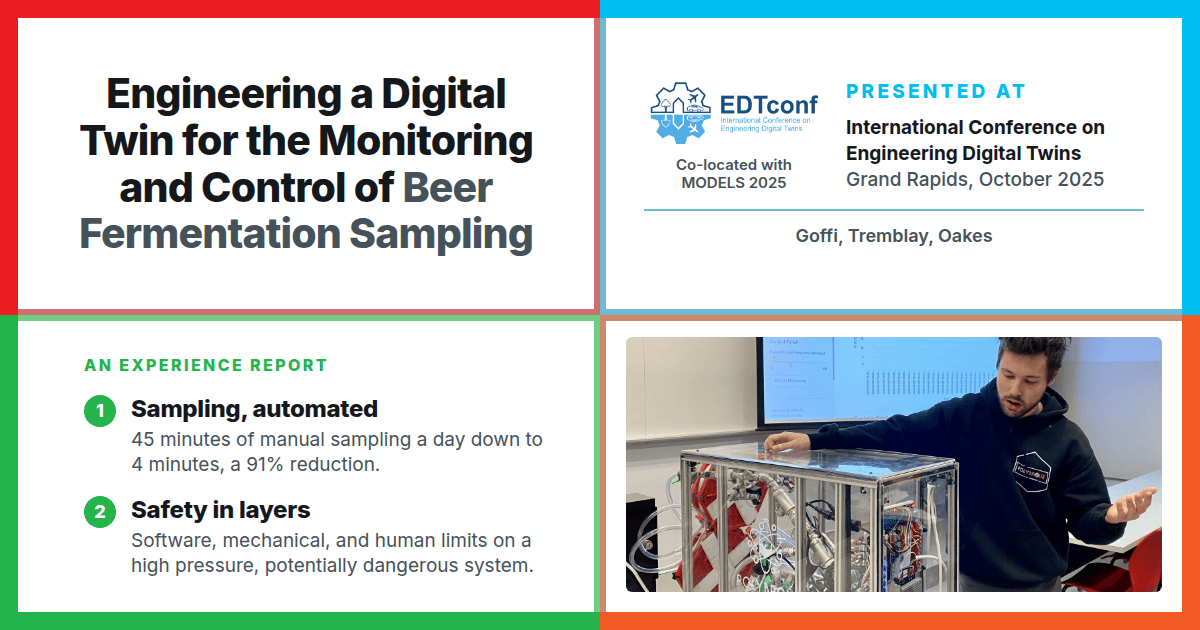
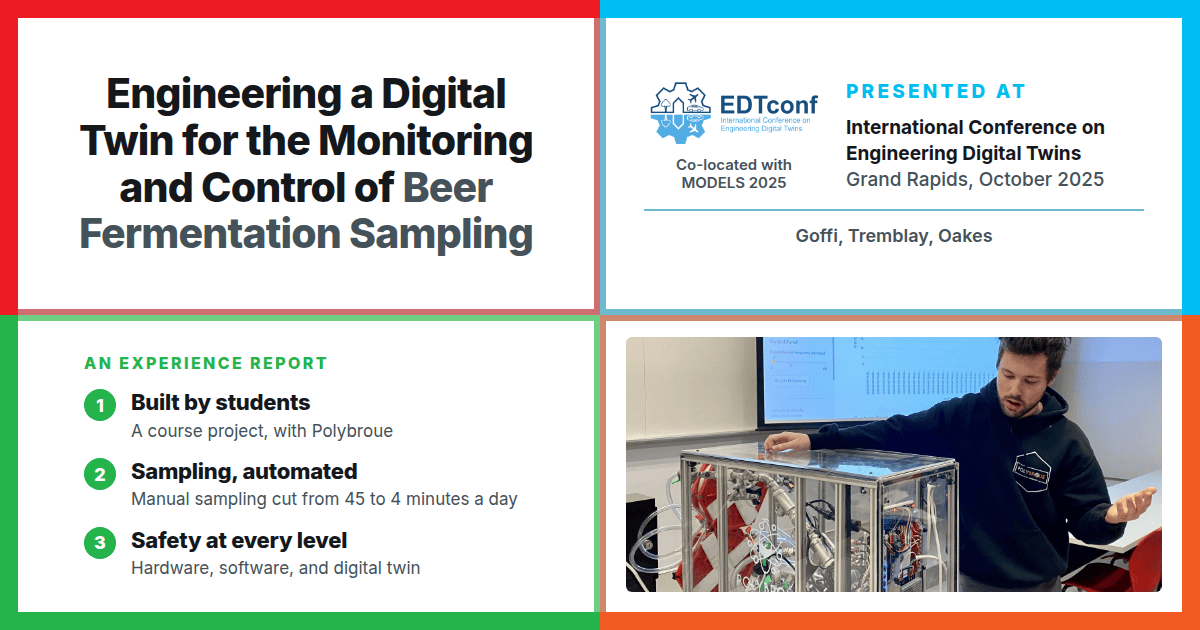
Add the beer fermentation article, and refresh its card

Changed region(s): [[0.0617, 0.5429, 0.4625, 0.9349], [0.8942, 0.9048, 0.925, 0.9349]]

diff --git a/assets/cards/goffi2025.html b/assets/cards/goffi2025.html
@@ -13,6 +13,21 @@
   .figure img {
     object-position: 50% 38%;
   }
+
+  /* Three points rather than two, so each gives up a little room and each
+     description is kept to a single line, as on the FITER card. */
+  .points ol {
+    gap: 16px;
+  }
+  .points .label {
+    margin-bottom: 16px;
+  }
+  .points h2 {
+    font-size: 22px;
+  }
+  .points p {
+    font-size: 17px;
+  }
 </style>
 
 <section class="q title">
@@ -38,14 +53,20 @@
   <ol>
     <li>
       <div>
-        <h2>Sampling, automated</h2>
-        <p>45 minutes of manual sampling a day down to 4 minutes, a 91% reduction.</p>
+        <h2>Built by students</h2>
+        <p>A course project, with Polybroue</p>
       </div>
     </li>
     <li>
       <div>
-        <h2>Safety in layers</h2>
-        <p>Software, mechanical, and human limits on a high pressure, potentially dangerous system.</p>
+        <h2>Sampling, automated</h2>
+        <p>Manual sampling cut from 45 to 4 minutes a day</p>
+      </div>
+    </li>
+    <li>
+      <div>
+        <h2>Safety at every level</h2>
+        <p>Hardware, software, and digital twin</p>
       </div>
     </li>
   </ol>

diff --git a/_news/2025-10-11-beer-fermentation-digital-twin.md b/_news/2025-10-11-beer-fermentation-digital-twin.md
@@ -1,0 +1,90 @@
+---
+layout: post
+title: "A Safety-Critical Digital Twin for Beer Fermentation"
+date: 2025-10-11 00:00:00-0400
+inline: false
+sitemap: true
+related_posts: false
+permalink: /publications/beer-fermentation-digital-twin/
+description: "EDTconf 2025 paper on a student-built digital twin that monitors beer fermentation and safely controls high-pressure sampling equipment."
+thumbnail: /assets/img/publications/goffi2025-card.png
+og_image: https://bentleyoakes.com/assets/img/publications/goffi2025-card.png
+---
+
+I presented our paper **['Engineering a Digital Twin for the Monitoring and Control of Beer Fermentation Sampling'](/assets/publications/Goffi2025%20-%20Engineering%20a%20Digital%20Twin%20for%20the%20Monitoring%20and%20Control%20of%20Beer%20Fermentation%20Sampling.pdf)** at the [International Conference on Engineering Digital Twins (EDTconf 2025)](https://conf.researchr.org/home/edtconf-2025) in Grand Rapids, Michigan. Pierre-Emmanuel Goffi and Raphaël Tremblay led the work as a project in my [Digital Twin Engineering course](/digital-twin-engineering-course/). They built on equipment made by [Polybroue](https://www.instagram.com/polybroue/), the brewing club at Polytechnique Montréal.
+
+<figure class="figure-narrow">
+  <img
+    src="/assets/img/publications/goffi2025-presenting.jpg"
+    alt="Bentley Oakes presenting beside a slide about beer fermentation monitoring and manual sampling at EDTconf 2025."
+    style="aspect-ratio: 16 / 10; object-fit: cover; object-position: center 45%;"
+    loading="lazy"
+  />
+  <figcaption class="caption">Presenting the paper at EDTconf 2025 in Grand Rapids.</figcaption>
+</figure>
+
+I'm very proud that students in my course built a true digital twin (one that can also control the equipment) of such an interesting and complex system, and that the work was accepted at a solid venue like EDTconf.
+
+The paper describes how they turned a fermentation monitor into a digital twin that can also control the equipment. Brewers normally take samples by hand every day while a fermentation runs, which can take weeks. The digital twin cut the time spent on this by **91%**.
+
+There are two main lessons. First, since the equipment works at high pressure, **safety has to be built in at every level** (the hardware, the software, and the digital twin) right from the start. Second, digital twins bring together **many disciplines**, which makes it hard to get everyone on the same page. That is why a **visual representation** like our [digital twin constellation](/publications/#Gil2024towardssystematicreporting) is so important.
+
+A pre-print is [available here](/assets/publications/Goffi2025%20-%20Engineering%20a%20Digital%20Twin%20for%20the%20Monitoring%20and%20Control%20of%20Beer%20Fermentation%20Sampling.pdf) and on [arXiv](https://arxiv.org/abs/2508.18452). Related work includes [DTInsight](/publications/#Fiter2025), a tool for reporting on digital twins.
+
+{% include video.liquid
+  path="https://www.youtube.com/watch?v=f_TO3kpDPdQ"
+  title="Engineering a Digital Twin for the Monitoring and Control of Beer Fermentation Sampling, recorded at EDTconf 2025"
+  caption="The recorded EDTconf 2025 talk. A separate <a href=\"https://youtu.be/-EGl8y5Qlus\">demo video</a> shows the sampling cycle and the Unity model."
+%}
+
+{% include abstract.liquid
+  text="Successfully engineering interactive industrial DTs is a complex task, especially when implementing services beyond passive monitoring. We present here an experience report on engineering a safety-critical digital twin (DT) for beer fermentation monitoring, which provides continual sampling and reduces manual sampling time by 91%. We document our systematic methodology and practical solutions for implementing bidirectional DTs in industrial environments. This includes our three-phase engineering approach that transforms a passive monitoring system into an interactive Type 2 DT with real-time control capabilities for pressurized systems operating at seven bar. We contribute details of multi-layered safety protocols, hardware-software integration strategies across Arduino controllers and Unity visualization, and real-time synchronization solutions. We document specific engineering challenges and solutions spanning interdisciplinary integration, demonstrating how our use of the constellation reporting framework facilitates cross-domain collaboration. Key findings include the critical importance of safety-first design, simulation-driven development, and progressive implementation strategies. Our work thus provides actionable guidance for practitioners developing DTs requiring bidirectional control in safety-critical applications."
+%}
+
+## The project
+
+As members of Polybroue, Raphaël and Pierre-Emmanuel designed the sampling equipment in 2023 and built it in 2024. In Winter 2025, they took it on as their course project. They wrote the software that connects the equipment to the digital twin (a server, a database, a dashboard, and a 3D view in Unity), and added control of the equipment along with the safety measures it needs.
+
+<figure class="figure-narrow">
+  <img
+    src="/assets/img/publications/goffi2025-physical-twin.jpg"
+    alt="Raphaël Tremblay, wearing a Polybroue hoodie, stands beside the sampling equipment in a clear acrylic case, with the digital twin dashboard showing fermentation history on the screen behind him."
+    loading="lazy"
+  />
+  <figcaption class="caption">Raphaël showing the equipment and dashboard at the end of the course, April 2025.</figcaption>
+</figure>
+
+## How it works
+
+A pump draws beer from the fermentation tank into a small steel chamber, where sensors measure temperature, pH, conductivity, and dissolved oxygen. A floating hydrometer in the tank measures density. Each sample goes through the same steps:
+
+1. Fill the chamber with beer from the tank.
+2. Pressurise the chamber with nitrogen. The oxygen sensor needs high pressure to read accurately.
+3. Take the readings and send them to the digital twin.
+4. Slowly release the pressure.
+5. Return the beer to the tank.
+
+After five samples, the beer flows through the chamber in the other direction, to ensure representative sampling. Brewers see the readings on a dashboard or on the 3D model, and can send changes back to the equipment, such as how often to take a sample.
+
+The constellation below shows the whole system in four layers: the physical equipment, the communication, the services, and the models and data.
+
+<figure class="figure-full">
+  <img
+    src="/assets/img/publications/goffi2025-constellation.png"
+    alt="The digital twin constellation for the brewing system. On the left, the physical twin: the brewery, the fermentation monitor attached to the tank, its actuators and sensors, and an operator. Sensor readings (temperature, pH, oxygen, pressure, and density from the iSpindle) flow right through communication enablers (Wi-Fi, HTTPS, WebSockets) to the digital side. There, a models and data layer (DT schemas, 3D models, fermentation models) feeds an enablers layer (Unity, DT Manager, PostgreSQL database), which supports four services: visualisation, analysis, safety, and control. Arrows back to the physical side carry visualisations and alarms to the operator, and parameter changes to the actuators."
+    loading="lazy"
+  />
+  <figcaption class="caption">The digital twin constellation for the brewing system, from the paper.</figcaption>
+</figure>
+
+## Safety, challenges, and results
+
+With software controlling equipment under pressure, a bug or a lost connection could damage the equipment or hurt someone. So they built in safety at three levels. In the hardware, a mechanical valve releases the pressure as a last resort. In the software, the system shuts down if the pressure gets too high, and watchdog timers put the equipment in a safe state if the controller fails or the connection drops. In the digital twin, operations are sorted by risk. Small changes, such as how often to sample, can be made remotely. Some operations must be confirmed both in the digital twin and at the equipment. The most dangerous operations need someone at the equipment.
+
+After testing with water, power cuts, network loss, and sensor failures, the system has run over 500 pressure cycles without incident, though it has not been formally safety certified.
+
+The physical side brought leaks, electrical noise, and water damage to the electronics, which took new seals, shielding, and waterproof cases to fix. Getting people from brewing, mechanical, electrical, and software backgrounds to understand each other was also hard. In their final presentation, they said interdisciplinary work "takes time and a lot of communication".
+
+Readings can be taken as often as every five seconds, or 17,280 a day, compared to a few by hand. The system sent 23 automatic alerts across the batches it monitored. On the other hand, the system is expensive, needs technical knowledge to maintain, and some checks, like yeast health, are still done by hand. Next steps include monitoring several tanks and predicting how a fermentation will go.
+
+To see the other student projects, or to take the course yourself, see the [Digital Twin Engineering course page](/digital-twin-engineering-course/#course-projects).
